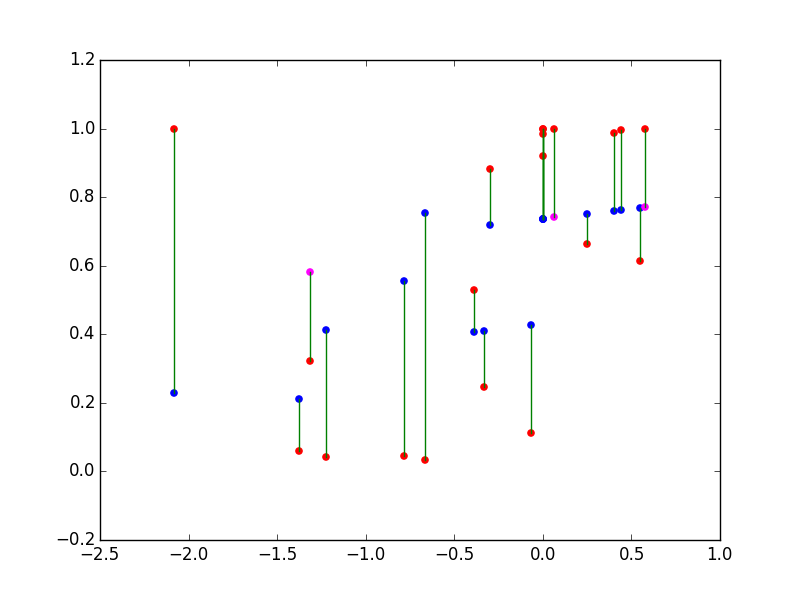
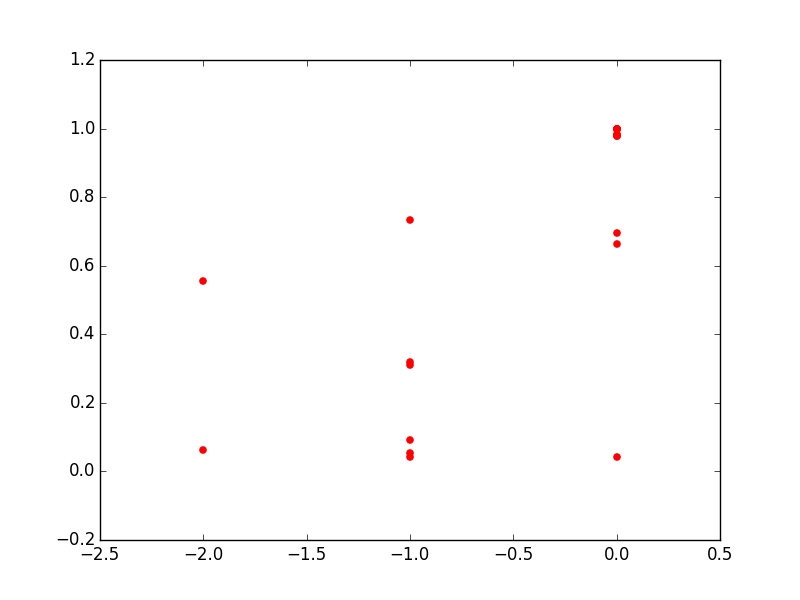
active learning algo for F matrix

diff --git a/Dep_domain/active_F_model.py b/Dep_domain/active_F_model.py
@@ -5,6 +5,7 @@ import random
 import matplotlib.pyplot as plt
 from mpl_toolkits.mplot3d import Axes3D
 from sklearn import linear_model
+from scipy.spatial.distance import cosine
 
 def change(Q1, Q2, env):
 	thres = 0.0 
@@ -64,7 +65,7 @@ def learn_source(task_num, s_env, epsilon = 0.3, alpha = 0.6, discount = 0.9):
 	plt.figure(1)
 	plt.clf()
 	plt.imshow(policy, interpolation='none', cmap='gray')
-	plt.savefig("F_model/policies/source_policy%d.png" % task_num)
+	plt.savefig("active_F_model/policies/source_policy%d.png" % task_num)
 	return Q
 
 def Transfer(Q, f_env, f_step = 300, epsilon = 0.3, alpha = 0.01, discount = 0.9):
@@ -98,6 +99,19 @@ def Transfer(Q, f_env, f_step = 300, epsilon = 0.3, alpha = 0.01, discount = 0.9
 	# print (tot_reward)
 	return tot_reward
 
+def FindNextPair(max_eigenv, pairs, pair_features):
+	max_sim = 0
+	for (i,j) in pairs:
+		sim = 1 - cosine(max_eigenv, pair_features[i][j])
+		# print sim
+		if(sim < 0):
+			sim = -1*sim
+		if( sim > max_sim):
+			next_i = i
+			next_j = j
+			max_sim = sim
+	return [next_i, next_j]
+
 if __name__ == "__main__":
 
 	gridsize = 7
@@ -118,7 +132,7 @@ if __name__ == "__main__":
 	task_features = sfeatures + tfeatures
 	no_features = 3
 	# I have 20 task pairs, I have to select some of them for learning the regression model. which one to choose?
-	# Answer -- As of now randomly choosing some pairs as training and remaining as test.
+	# Answer -- Active learning will help in it. But how many to choose?
 
 	no_tasks = len(subtasks)+1
 	pair_features = [ [[] for i in range(no_tasks)] for j in range(no_tasks-1) ]
@@ -132,13 +146,16 @@ if __name__ == "__main__":
 	pair_features = np.asarray(pair_features)
 	# print (pair_features)
 	X = []
-	for i in range(no_tasks-1):
-		for j in range(no_tasks):
-			X.append([])
-			X[-1].append(pair_features[i][j][0])
-			X[-1].append(pair_features[i][j][1])
-			X[-1].append(pair_features[i][j][2])
-	X = np.asarray(X)
+	y = []
+	# for i in range(no_tasks-1):
+	# 	for j in range(no_tasks):
+	# 		if(i == j):
+	# 			continue
+	# 		X.append([])
+	# 		X[-1].append(pair_features[i][j][0])
+	# 		# X[-1].append(pair_features[i][j][1])
+	# 		X[-1].append(pair_features[i][j][2])
+	# X = np.asarray(X)
 
 	## Computing inter task tranferability matrix
 
@@ -146,32 +163,69 @@ if __name__ == "__main__":
 	tot_tasks.append(target_task)
 	F = np.zeros((no_tasks-1, no_tasks))
 	rounds = 20
-	for Ts in range(no_tasks-1):
-		s_env = Maze(gridsize, tot_tasks[Ts][:-1], tot_tasks[Ts][-1])
-		s_env.draw("F_model/tasks/", Ts)
-		Q = learn_source(Ts, s_env)
-		for Tf in range(no_tasks):
-			print ("Task pair: (%d,%d)" % (Ts, Tf))
-			f_env = Maze(gridsize, tot_tasks[Tf][:-1], tot_tasks[Tf][-1])
-			# print Q
-			for r in range(rounds):
-				Q2 = copy.deepcopy(Q)
-				F[Ts][Tf] += Transfer(Q2, f_env)
 
-	F = F / F.max(axis = 0)
-
-	y = []
+	pairs = []
 	for i in range(no_tasks-1):
 		for j in range(no_tasks):
-			y.append(F[i][j])
+			if(i != j):
+				pairs.append([i, j])
 
+	num_inputs = len(pairs)
+
+	D = []
+	next_i = np.random.randint(0, no_tasks-1)
+	next_j = np.random.randint(0, no_tasks)
+	# D.append(pair_features[first_i][first_j])
+
+	while len(D) != num_inputs - 1:
+		pairs.remove([next_i, next_j])
+		D.append(pair_features[next_i][next_j])
+		X.append([])
+		X[-1].append(pair_features[next_i][next_j][0])
+		X[-1].append(pair_features[next_i][next_j][1])
+		X[-1].append(pair_features[next_i][next_j][2])
+
+	# for Ts in range(no_tasks-1):
+		s_env = Maze(gridsize, tot_tasks[next_i][:-1], tot_tasks[next_i][-1])
+		s_env.draw("active_F_model/tasks/", next_i)
+		Q = learn_source(next_i, s_env)
+		# for Tf in range(no_tasks):
+		print ("Task pair: (%d,%d)" % (next_i, next_j))
+		f_env = Maze(gridsize, tot_tasks[next_j][:-1], tot_tasks[next_j][-1])
+			# print Q
+		for r in range(rounds):
+			Q2 = copy.deepcopy(Q)
+			F[next_i][next_j] += Transfer(Q2, f_env)
+
+		y.append(F[next_i][next_j]/rounds)
+
+		D2 = np.asarray(D)
+		A = np.dot(np.transpose(D2), D2)
+		eigenValues,eigenVectors = np.linalg.eig(A)
+		idx = eigenValues.argmax()
+		max_eigenv = eigenVectors[:, idx]
+		[next_i, next_j] = FindNextPair(max_eigenv, pairs, pair_features)
+
+	# for i in range(no_tasks-1):
+	# 	for j in range(no_tasks):
+	# 		if(i == j):
+	# 			F[i][j] = 
+	# F = F / F.max(axis = 0)
+
+	# y = []
+	# for i in range(no_tasks-1):
+	# 	for j in range(no_tasks):
+	# 		if(i == j):
+	# 			continue
+	# 		y.append(F[i][j])
+	X = np.asarray(X)
 	y = np.asarray(y)
 	data = np.c_[X.reshape(len(X), -1), y.reshape(len(y), -1)]
 	np.random.shuffle(data)
 	X2 = data[:, :X.size//len(X)].reshape(X.shape)
 	y2 = data[:, X.size//len(X):].reshape(y.shape)
-	[X_train, X_test] = np.split(X2, [len(X2)-3])
-	[y_train, y_test] = np.split(y2, [len(y2)-3])
+	[X_train, X_test] = np.split(X2, [len(X2)-8])
+	[y_train, y_test] = np.split(y2, [len(y2)-8])
 
 	clf = linear_model.LinearRegression()
 	# clf = linear_model.Ridge (alpha = .1)
@@ -180,20 +234,20 @@ if __name__ == "__main__":
 	print (predict_test, y_test)
 
 	plt.figure(3)
-	plt.scatter(X2[:,2], y2, color='red')
+	plt.scatter(X2[:,0], y2, color='red')
 	# fig = plt.figure(3)
 	# ax = fig.add_subplot(111, projection='3d')
 	# ax.scatter(X2[:,0], X2[:,1], y2, color='red')
 	predict_train = clf.predict(X_train)
-	# plt.scatter(X_train[:,1], predict_train, color='blue')
-	# plt.scatter(X_test[:,1], predict_test, color='magenta')
+	plt.scatter(X_train[:,0], predict_train, color='blue')
+	plt.scatter(X_test[:,0], predict_test, color='magenta')
 
 	predict = clf.predict(X2)
-	# for i in range(len(X2)):
-	# 	plt.plot([X2[i][1], X2[i][1]], [y2[i], predict[i]], color='green')
-	plt.savefig('F_model/model.png')
+	for i in range(len(X2)):
+		plt.plot([X2[i][0], X2[i][0]], [y2[i], predict[i]], color='green')
+	plt.savefig('active_F_model/model.png')
 
 	plt.figure(2)
 	plt.imshow(F, interpolation='none', cmap='gray')
-	plt.savefig('F_model/F.png')
+	plt.savefig('active_F_model/F.png')
 
